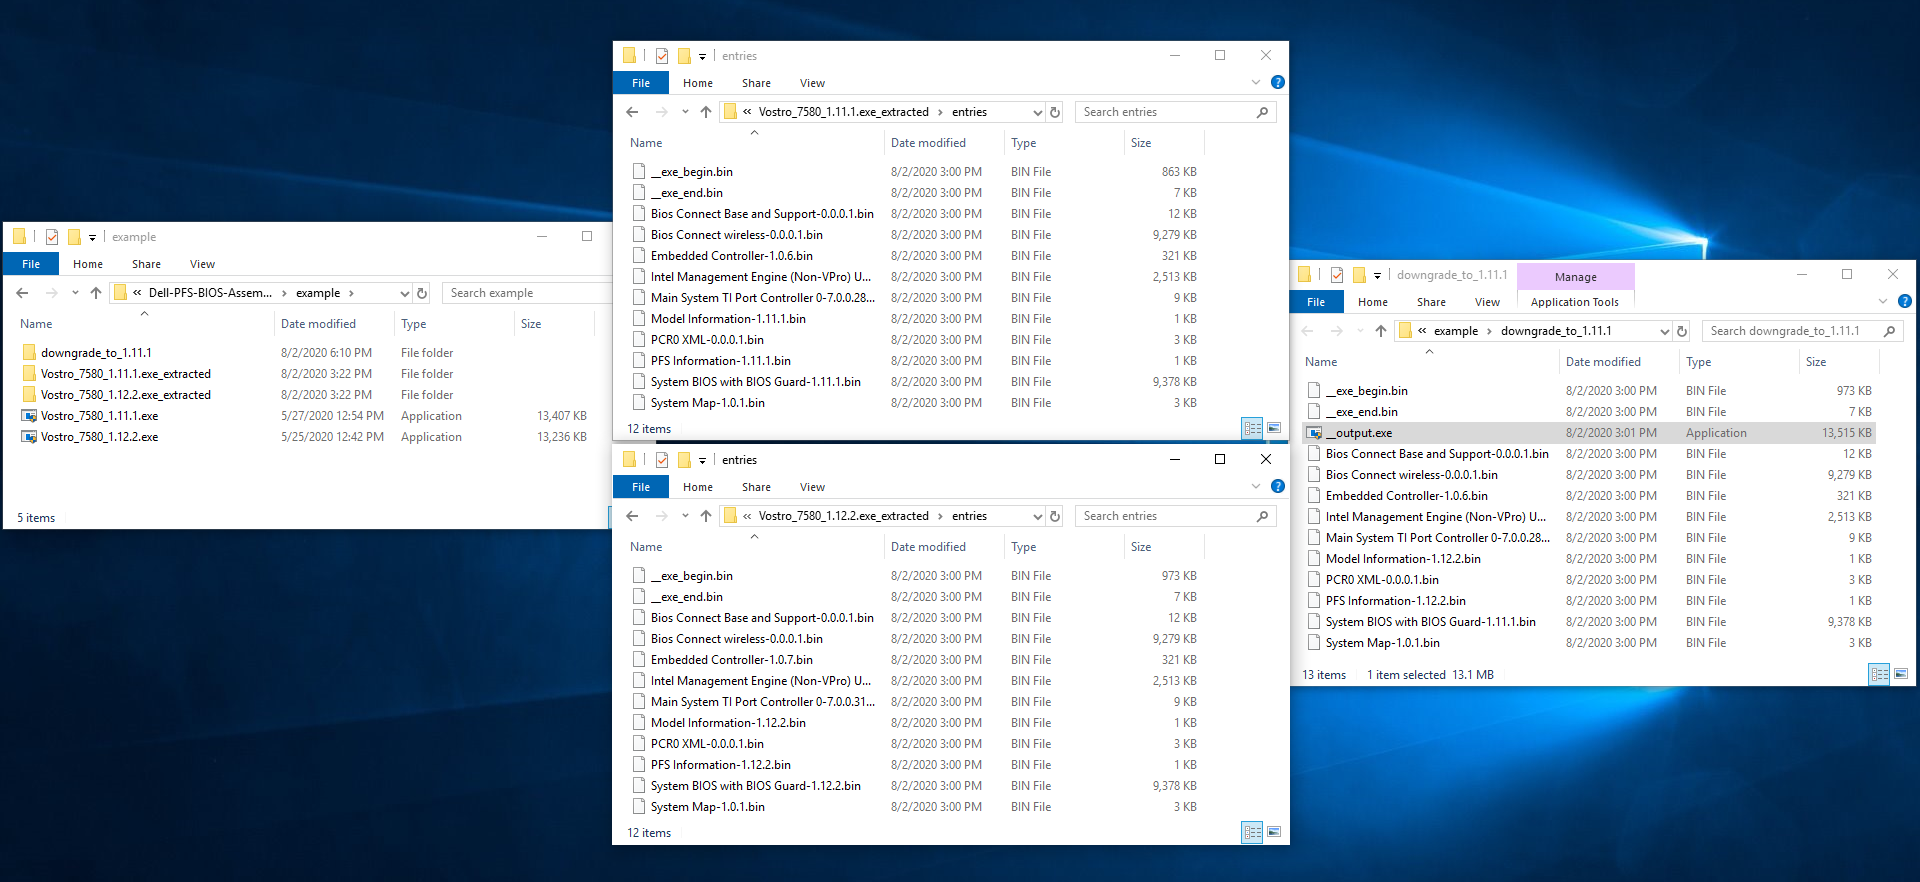
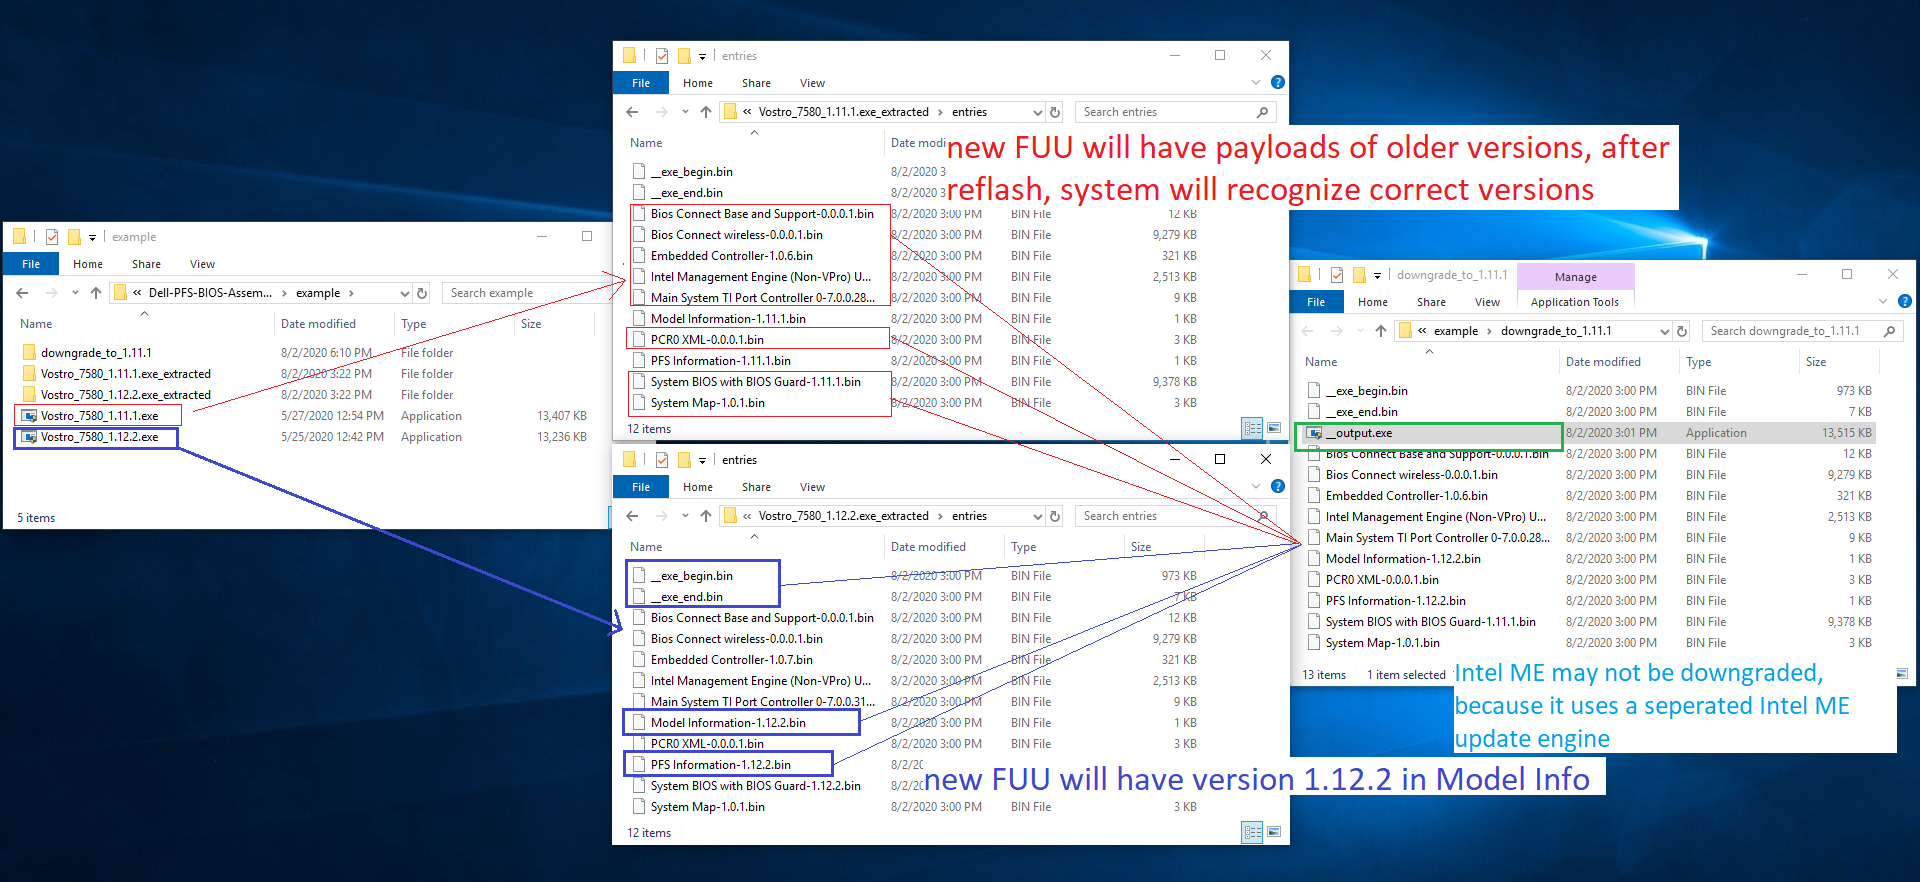
update readme with new image and video tutorial

diff --git a/README.md b/README.md
@@ -1,9 +1,13 @@
 # Dell PFS BIOS Assembler
 This script makes **Downgrade-able BIOS update** file from Dell original BIOS updates.  
-Tutorial: [Downgrade BIOS on Dell's blocked downgrade machines](https://youtube.com/)
+
+Tutorial: [Downgrade BIOS on Dell's blocked downgrade machines][0]  
+
+*Even thought inputs of assembler are Dell's original and signed files, downgrading to older BIOS version without understanding about how BIOS components work together can harm your machine.*  
+***Do it with your own risk.***
 
 ## Problems of Blocked Downgrade
-Recently, Dell has locked BIOS Downgrade functions on some laptop lines because they don't allow to go back to an older BIOS version which had security problems.
+Recently, Dell has locked BIOS Downgrade functions on some laptop products because they don't allow users to go back to an older BIOS version which had security problems.
 Force downgrading using older Dell BIOS files will show a red message "**BIOS Update blocked due to unsupported downgrade**".  
 
 There are some methods to unlock Flash chipset then re-flash older BIOS in the thread [[Guide] Unlock Intel Flash Descriptor Read/Write Access Permissions for SPI Servicing][1] but they are difficult to do.
@@ -32,11 +36,11 @@ There are some entries included in Dell FUU:
 I have to extract BIOS entries from 2 Dell FUU files:
 1. FUU file at current version of running BIOS, i.e. 1.12.2
 ```sh
-python Dell_PFS_Extract.py -x Vostro_7580_1.12.2.exe
+python Dell_PFS_Extract.py -d Vostro_7580_1.12.2.exe
 ```
 2. FUU file at lower version which I want to downgrade to, i.e. 1.11.1 
 ```sh
-python Dell_PFS_Extract.py -x Vostro_7580_1.11.1.exe
+python Dell_PFS_Extract.py -d Vostro_7580_1.11.1.exe
 ```
 After extracting, I will re-assemble them into new Dell FUU file.
 
@@ -44,14 +48,14 @@ After extracting, I will re-assemble them into new Dell FUU file.
 To fool Dell system to think that new FUU is the same version with its running version, I must use **Model Information** and **PFS Information** entries from current FUU version (1.12.2).
 Then I can use other entries from older FUU version (BIOS v1.11.1, EC v1.11.1, etc.,).
 
-I wrote [**Dell PFS BIOS Assembler**][5] to merge entries into a new FUU. Those entries are:
+I wrote [**Dell PFS BIOS Assembler**][3] to merge entries into a new FUU. Those entries are:
 * **__exe_begin.bin**: the begging part of Dell FUU exe file
 * **__exe_end.bin**: the ending part of Dell FUU exe file
 * **Modem Information-1.12.2**: to fake BIOS payload version
 * **FPS Information-1.12.2**: to have list of included entry GUIDs
 * **BIOS-1.11.1**: BIOS entry of older Dell FUU, we will downgrade BIOS to this version
 * **EC-1.11.1**: Embedded Controller of older Dell FUU, we will downgrade BIOS to this version
-* other entries can use 1.12.2 version or 1.11.1 version (ME may not be downgraded)
+* other entries can use 1.12.2 version or 1.11.1 version (ME may not be downgraded, it uses Intel ME Updater)
 
 ![files.png](files.PNG)
 
@@ -60,15 +64,18 @@ python Dell_PFS_Assembler.py -f downgrade_to_1.11.1
 ```
 After running the assembler, you will get new Dell FUU file as *__output.exe*. Rename it if needed.
 
-### 3. Note before downgrading
+### 3. A note before downgrading
 Because downgrading can cause mismatched data problem, some functions on windows may not work normally. I had finger scanner problem after downgrading.
 Therefore, you should think about the side effect before re-flashing.
 
 ### 4. Re-flash
 Execute the new FUU file, or use BIOS Flash Programmer in BIOS menu. After downgrading, re-check your BIOS version and fix issues if needed.
 
+---
+Tutorial: [Downgrade BIOS on Dell's blocked downgrade machines][0]
+
+[0]: https://youtu.be/7zFAU9DKmVk
 [1]: https://www.win-raid.com/t3553f39-Guide-Unlock-Intel-Flash-Descriptor-Read-Write-Access-Permissions-for-SPI-Servicing.html
 [2]: https://www.win-raid.com/t596f39-Intel-Management-Engine-Drivers-Firmware-amp-System-Tools.html
-[3]: https://github.com/vuquangtrong
+[3]: https://github.com/vuquangtrong/Dell-PFS-BIOS-Assembler
 [4]: https://github.com/platomav/BIOSUtilities
-[5]: https://github.com/vuquangtrong
